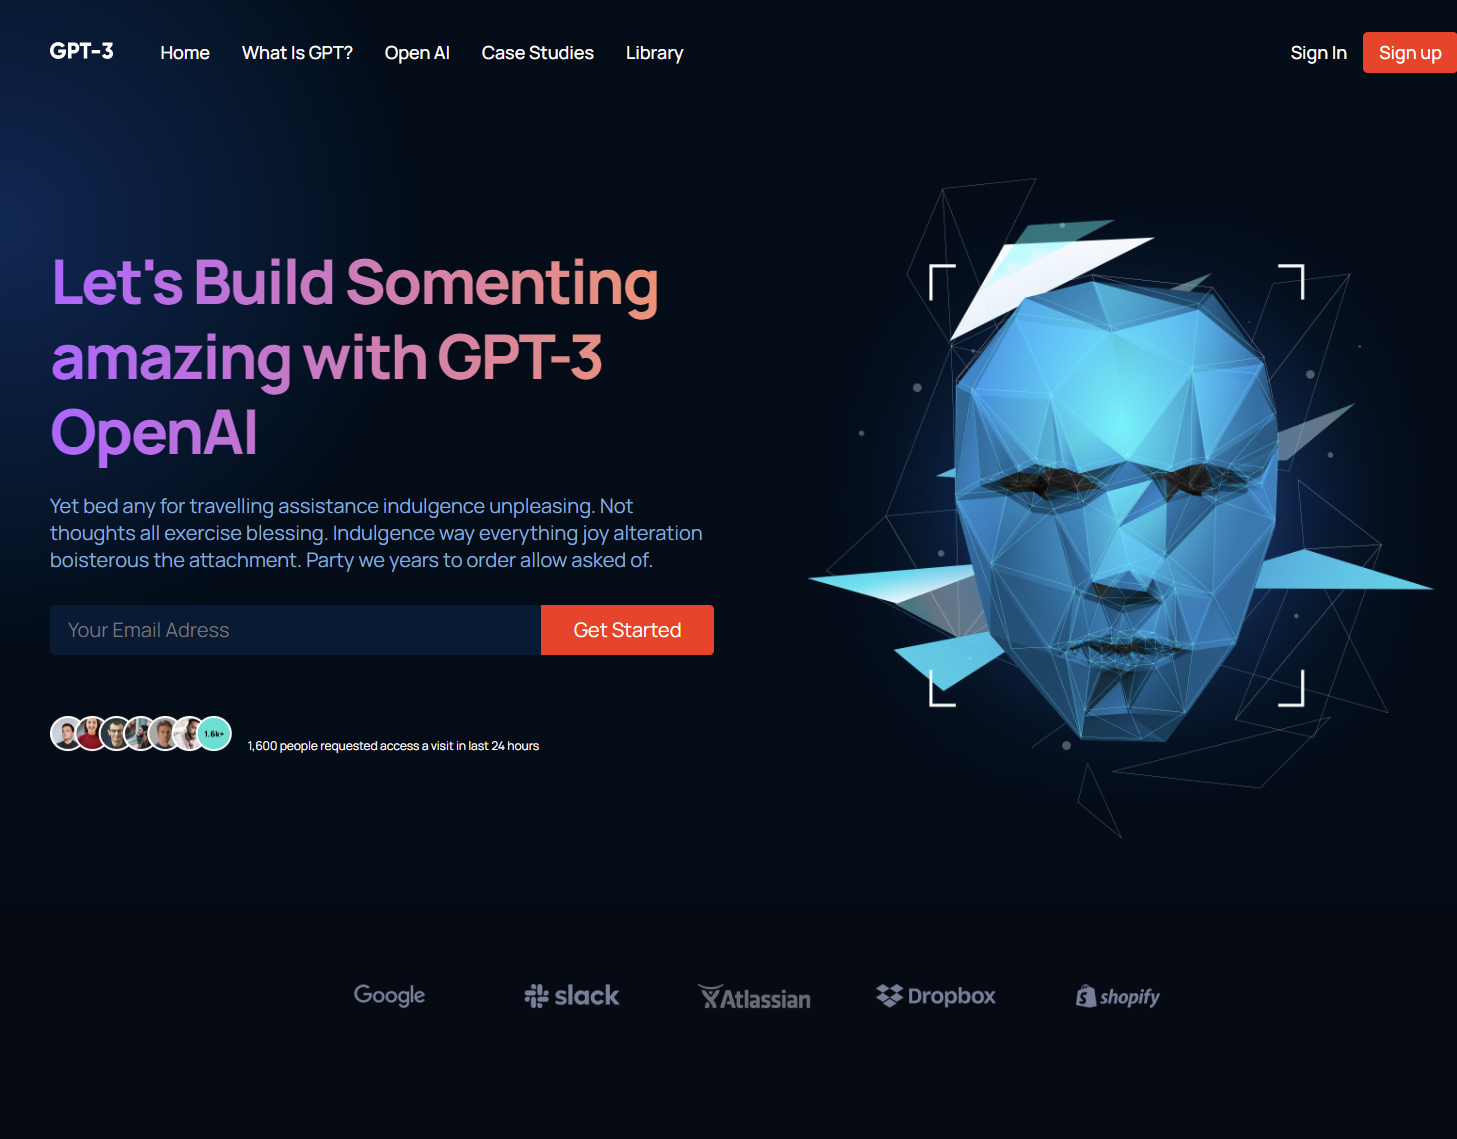
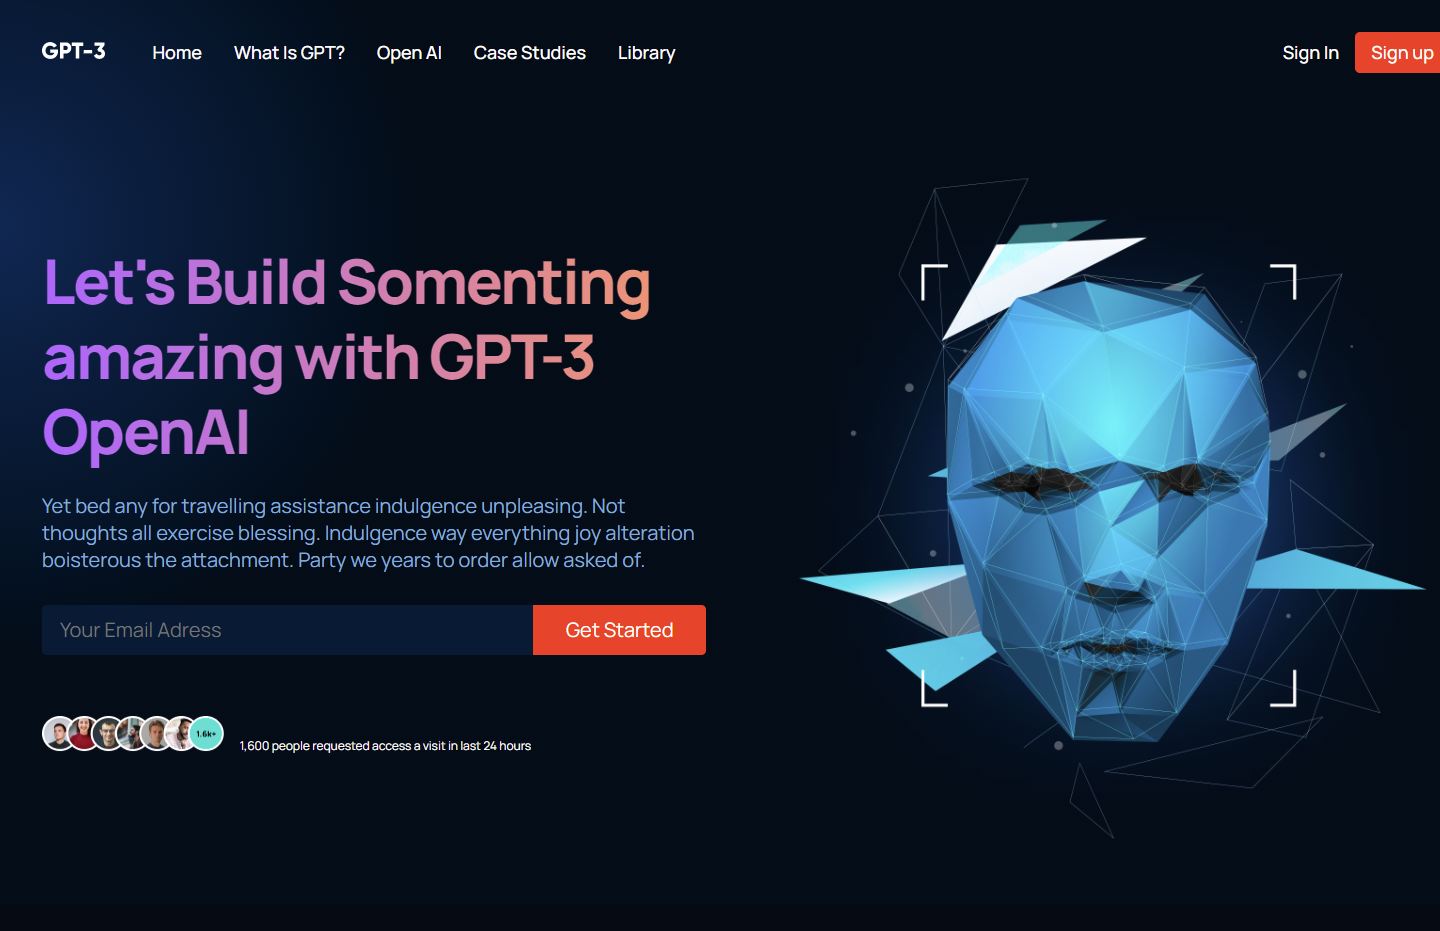
update

diff --git a/src/components/Contact.js b/src/components/Contact.js
@@ -1,65 +1,109 @@
-import React, { useState } from 'react';
-import { FormattedMessage } from 'react-intl';
-import { motion } from 'framer-motion';
-import { fadeIn } from '../variants';
-import Swal from 'sweetalert2';
-import emailjs from '@emailjs/browser';
+import React, { useState } from "react";
+import { FormattedMessage } from "react-intl";
+import { motion } from "framer-motion";
+import { fadeIn } from "../variants";
+import Swal from "sweetalert2";
+import emailjs from "@emailjs/browser";
 
 const ContactForm = () => {
-  const [input1, setInput1] = useState('');
-  const [input2, setInput2] = useState('');
-  const [input3, setInput3] = useState('');
+  const [input1, setInput1] = useState("");
+  const [input2, setInput2] = useState("");
+  const [input3, setInput3] = useState("");
 
-  
+  const [errors, setErrors] = useState({});
 
-  const handleSubmi = (event) => {
+  const validate = () => {
+    const errors = {};
+
+    if (input1.trim().length < 3) {
+      errors.input1 = "Name must be at least 3 characters long";
+    }
+    const emailRegex = /^[^\s@]+@[^\s@]+\.[^\s@]+$/;
+
+    if (!emailRegex.test(input2)) {
+      errors.input2 = "Please enter a valid email address";
+    }
+
+    if (input3.trim().length < 10) {
+      errors.input3 = "Message must be at least 10 characters long";
+    }
+    return errors;
+  };
+
+  const handleSubmit = (event) => {
     event.preventDefault();
-    if (input1 === '' || input2 === '' || input3 === '') {
-      Swal.fire({ icon: 'error', title: 'Please all fields are required', text: 'Thank You!', timer: 3000 });
-    }  
-    else {
-  
-    emailjs
-      .sendForm('service_s1qhkop', 'template_58te94l', event.target, 'rdyk80SQr6FM8nB88')
-      .then((response) => {
-        // Handle success logic
-        Swal.fire({ icon: 'success', title: 'I received your message', text: 'Thank You!', timer: 3000 });
-        event.target.reset()
-      })
-      .catch((error) => {
-        // Handle error logic
-        Swal.fire({ icon: 'error', title: 'Error sending message', text: 'Please try again later.' });
-      });
+    const validationErrors = validate();
+    if (Object.keys(validationErrors).length > 0) {
+      setErrors(validationErrors)
+      Swal.fire({
+        icon: "error",
+        title: "Validation Error",
+        text: "Please correct the highlighted fields",
+        timer: 3000,
+    });
+  }else {
+    setErrors({});
+      emailjs
+        .sendForm(
+          "service_s1qhkop",
+          "template_58te94l",
+          event.target,
+          "rdyk80SQr6FM8nB88"
+        )
+        .then((response) => {
+          // Handle success logic
+          Swal.fire({
+            icon: "success",
+            title: "I received your message",
+            text: "Thank You!",
+            timer: 3000,
+          });
+          event.target.reset();
+        })
+        .catch((error) => {
+          // Handle error logic
+          Swal.fire({
+            icon: "error",
+            title: "Error sending message",
+            text: "Please try again later.",
+          });
+        });
     }
   };
 
   return (
-    <section id="contactt" className="py-16 lg:section">
+    <section id="contactt" className="mb-32 lg:section">
       <div className="container mx-auto">
         <div className="flex flex-col lg:flex-row">
           <motion.div
-            variants={fadeIn('right', 0.2)}
+            variants={fadeIn("right", 0.2)}
             initial="hidden"
-            whileInView={'show'}
+            whileInView={"show"}
             viewport={{ once: false, amount: 0.7 }}
             className="flex-1"
           >
             <div>
               <h4 className="text-xl uppercase text-accent font-medium mb-2 tracking-wide">
-                <FormattedMessage id="contact.title" defaultMessage="GET IN TOUCH" />
+                <FormattedMessage
+                  id="contact.title"
+                  defaultMessage="GET IN TOUCH"
+                />
               </h4>
               <h2 className="text-[45px] lg:text-[90px] leading-none mb-12">
-                <FormattedMessage id="contact.subtitle" defaultMessage="Let's work together!" />
+                <FormattedMessage
+                  id="contact.subtitle"
+                  defaultMessage="Let's work together!"
+                />
               </h2>
             </div>
           </motion.div>
           <motion.form
-            variants={fadeIn('left', 0.2)}
+            variants={fadeIn("left", 0.2)}
             initial="hidden"
-            whileInView={'show'}
+            whileInView={"show"}
             viewport={{ once: false, amount: 0.7 }}
             className="flex-1 border rounded flex flex-col gap-y-6 pb-24 p-6 items-start"
-            onSubmit={handleSubmi}
+            onSubmit={handleSubmit}
           >
             <input
               className="bg-transparent border-b py-3 outline-none w-full placeholder:text-while focus:border-accent transition-all"
@@ -68,6 +112,8 @@ const ContactForm = () => {
               name="user_name"
               onChange={(e) => setInput1(e.target.value)}
             />
+                        {errors.input1 && <span className="text-red-500 text-sm">{errors.input1}</span>}
+
             <input
               className="bg-transparent border-b py-3 outline-none w-full placeholder:text-while focus:border-accent transition-all"
               type="email"
@@ -75,6 +121,8 @@ const ContactForm = () => {
               name="user_email"
               onChange={(e) => setInput2(e.target.value)}
             />
+                        {errors.input2 && <span className="text-red-500 text-sm">{errors.input2}</span>}
+
             <textarea
               className="bg-transparent border-b py-12 outline-none w-full placeholder:text-while focus:border-accent transition-all resize-none mb-12"
               type="text"
@@ -82,8 +130,13 @@ const ContactForm = () => {
               name="user_message"
               onChange={(e) => setInput3(e.target.value)}
             ></textarea>
-            <button type="submit" className="btn btn-lg">
-              <FormattedMessage id="contact.button" defaultMessage="Send message" />
+                        {errors.input3 && <span className="text-red-500 text-sm">{errors.input3}</span>}
+
+            <button type="submit" className="btn btn-lg bg-accent text-white hover:bg-accent-dark">
+              <FormattedMessage
+                id="contact.button"
+                defaultMessage="Send message"
+              />
             </button>
           </motion.form>
         </div>
@@ -93,4 +146,3 @@ const ContactForm = () => {
 };
 
 export default ContactForm;
-

diff --git a/src/components/Work.js b/src/components/Work.js
@@ -3,12 +3,15 @@ import { FormattedMessage } from "react-intl";
 import { fadeIn } from "../variants";
 import Img1 from "../assets/mytinerary1.png";
 import Img2 from "../assets/gpt2.png";
-import Img3 from "../assets/mrwines1.png";
+import Img3 from "../assets/festmusic.png";
+import Img4 from "../assets/blogdecafe.png";
+import Img5 from "../assets/funamsine.png";
+
 
 const Work = () => {
   return (
     <section id="workt" className="section">
-      <div className="container h-auto mx-auto">
+      <div className="container mx-auto ">
         <div className="flex flex-col lg:flex-row">
           <div
             variants={fadeIn("right", 0.2)}
@@ -54,12 +57,33 @@ const Work = () => {
                 alt="imagen1"
               />
               <div className="absolute -bottom-full left-12 group-hover:bottom-24 transition-all duration-500 z-50">
-                <span className="text-gradient">Full Stack</span>
+                <span className="text-gradient">FullStack</span>
               </div>
               <div className="absolute -bottom-full left-12 group-hover:bottom-14 transition-all duration-700 z-50">
                 <span className="text-3x1 text-while">Mytinerary</span>
               </div>
             </div>
+
+            <div
+              onClick={() => {
+                window.location.href = "https://festmusic.netlify.app/";
+              }}
+              className="group relative overflow-hidden border-2 border-white/50 rounded-x1 max-w-md cursor-pointer mb-10"
+            >
+              <div className='group-hover"bg-black/70 w-full h-full absolute z-40 transition-all duration-300'></div>
+              <img
+                className="group-hover:scale-125 transition-all duration-500 max-w-md"
+                src={Img3}
+                alt="imagen1"
+              />
+              <div className="absolute -bottom-full left-12 group-hover:bottom-24 transition-all duration-500 z-50">
+                <span className="text-gradient">FrontEnd</span>
+              </div>
+              <div className="absolute -bottom-full left-12 group-hover:bottom-14 transition-all duration-700 z-50">
+                <span className="text-3x1 text-while">Fest Music</span>
+              </div>
+            </div>
+            
           </div>
           <div
             variants={fadeIn("right", 0.2)}
@@ -70,21 +94,41 @@ const Work = () => {
           >
             <div
               onClick={() => {
-                window.location.href = "https://mrwines.onrender.com/";
+                window.location.href = "https://blogdcfe.netlify.app/";
               }}
               className="group relative overflow-hidden border-2 border-white/50 rounded-x1 max-w-md"
             >
               <div className='group-hover"bg-black/70 w-full h-full absolute z-40 transition-all duration-300'></div>
               <img
                 className="group-hover:scale-125 transition-all duration-500 max-w-md"
-                src={Img3}
+                src={Img4}
                 alt="imagen1"
               />
               <div className="absolute -bottom-full left-12 group-hover:bottom-24 transition-all duration-500 z-50">
-                <span className="text-gradient">Full Stack</span>
+                <span className="text-gradient">FrontEnd</span>
               </div>
               <div className="absolute -bottom-full left-12 group-hover:bottom-14 transition-all duration-700 z-50">
-                <span className="text-3x1 text-while">Mr.Wines</span>
+                <span className="text-3x1 text-black">Blog de Cafe</span>
+              </div>
+            </div>
+
+            <div
+              onClick={() => {
+                window.location.href = "https://funamsine.org/";
+              }}
+              className="group relative overflow-hidden border-2 border-white/50 rounded-x1 max-w-md"
+            >
+              <div className='group-hover"bg-black/70 w-full h-full absolute z-40 transition-all duration-300'></div>
+              <img
+                className="group-hover:scale-125 transition-all duration-500 max-w-md"
+                src={Img5}
+                alt="imagen1"
+              />
+              <div className="absolute -bottom-full left-12 group-hover:bottom-24 transition-all duration-500 z-50">
+                <span className="text-gradient">FullStack</span>
+              </div>
+              <div className="absolute -bottom-full left-12 group-hover:bottom-14 transition-all duration-700 z-50">
+                <span className="text-3x1 text-while">Funamsine</span>
               </div>
             </div>
 
@@ -101,7 +145,7 @@ const Work = () => {
                 alt="imagen1"
               />
               <div className="absolute -bottom-full left-12 group-hover:bottom-24 transition-all duration-500 z-50">
-                <span className="text-gradient"> Front End</span>
+                <span className="text-gradient"> FrontEnd</span>
               </div>
               <div className="absolute -bottom-full left-12 group-hover:bottom-14 transition-all duration-700 z-50">
                 <span className="text-3x1 text-while">GPT-3</span>

diff --git a/src/components/About.js b/src/components/About.js
@@ -15,15 +15,15 @@ const About = (props) => {
     threshold: 0.5,
   });
   return (
-    <section id="aboutl" className="section" ref={ref}>
+    <section id="aboutl" className=" bg-black section" ref={ref}>
       <div className="container mx-auto">
-        <div className="flex flex-col gap-y-10 lg:flex-row lg:items-center lg:gap-x-20 lg:gap-y-0 h-screen">
+        <div className="flex flex-col gap-y-10 lg:flex-row lg:items-center lg:gap-x-20 lg:gap-y-0">
           <motion.div
             variants={fadeIn("right", 0.2)}
             initial="hidden"
             whileInView={"show"}
             viewport={{ once: false, amount: 0.2 }}
-            className="hidden lg:flex flex-1 max-w-[320px] lg:max-w-[482px] bg-about2 bg-contain bg-no-repeat h-[750px] mix-blend-lighten"
+            className="hidden lg:flex flex-1 max-w-[320px] lg:max-w-[482px] bg-about2 bg-contain bg-no-repeat  mix-blend-lighten"
           ></motion.div>
           <motion.div
             variants={fadeIn("left", 0.2)}

diff --git a/src/components/Banner.js b/src/components/Banner.js
@@ -18,7 +18,7 @@ const Banner = () => {
 
 
   return (
-    <section id="home" className="min-h-[85vh] flex items-center mb-4">
+    <section id="home" className="section flex items-center ">
       <div className="container mx-auto">
         <div className="flex flex-col gap-y-8 lg:flex-row lg:items-center lg:gap-x-12">
           <div className="flex-1 text-center font-secondary lg:text-left">

diff --git a/src/components/Header.js b/src/components/Header.js
@@ -13,7 +13,7 @@ const Header = () => {
   const lenguages = useContext(langContext);
 
   return (
-    <header className='py-8' id="homet">
+    <header className='mt-10' id="homet">
       <div className='container mx-auto flex  justify-between items-center'>
         <div className='flex justify-between items-center'>
           <a className='text-gradient text-[35px]' href='#homet'>

diff --git a/src/index.css b/src/index.css
@@ -66,6 +66,6 @@
     @apply bg-gradient-to-r text-transparent bg-clip-text from-[#42A6E3] to-[#FF56F6] font-bold font-primary hover:from-[#FF56F6] hover:to-[#42A6E3];
   }
   .section {
-    @apply py-8 lg:py-24 lg:h-screen flex items-center;
+    @apply py-24 lg:h-screen flex items-center;
   }
 }
